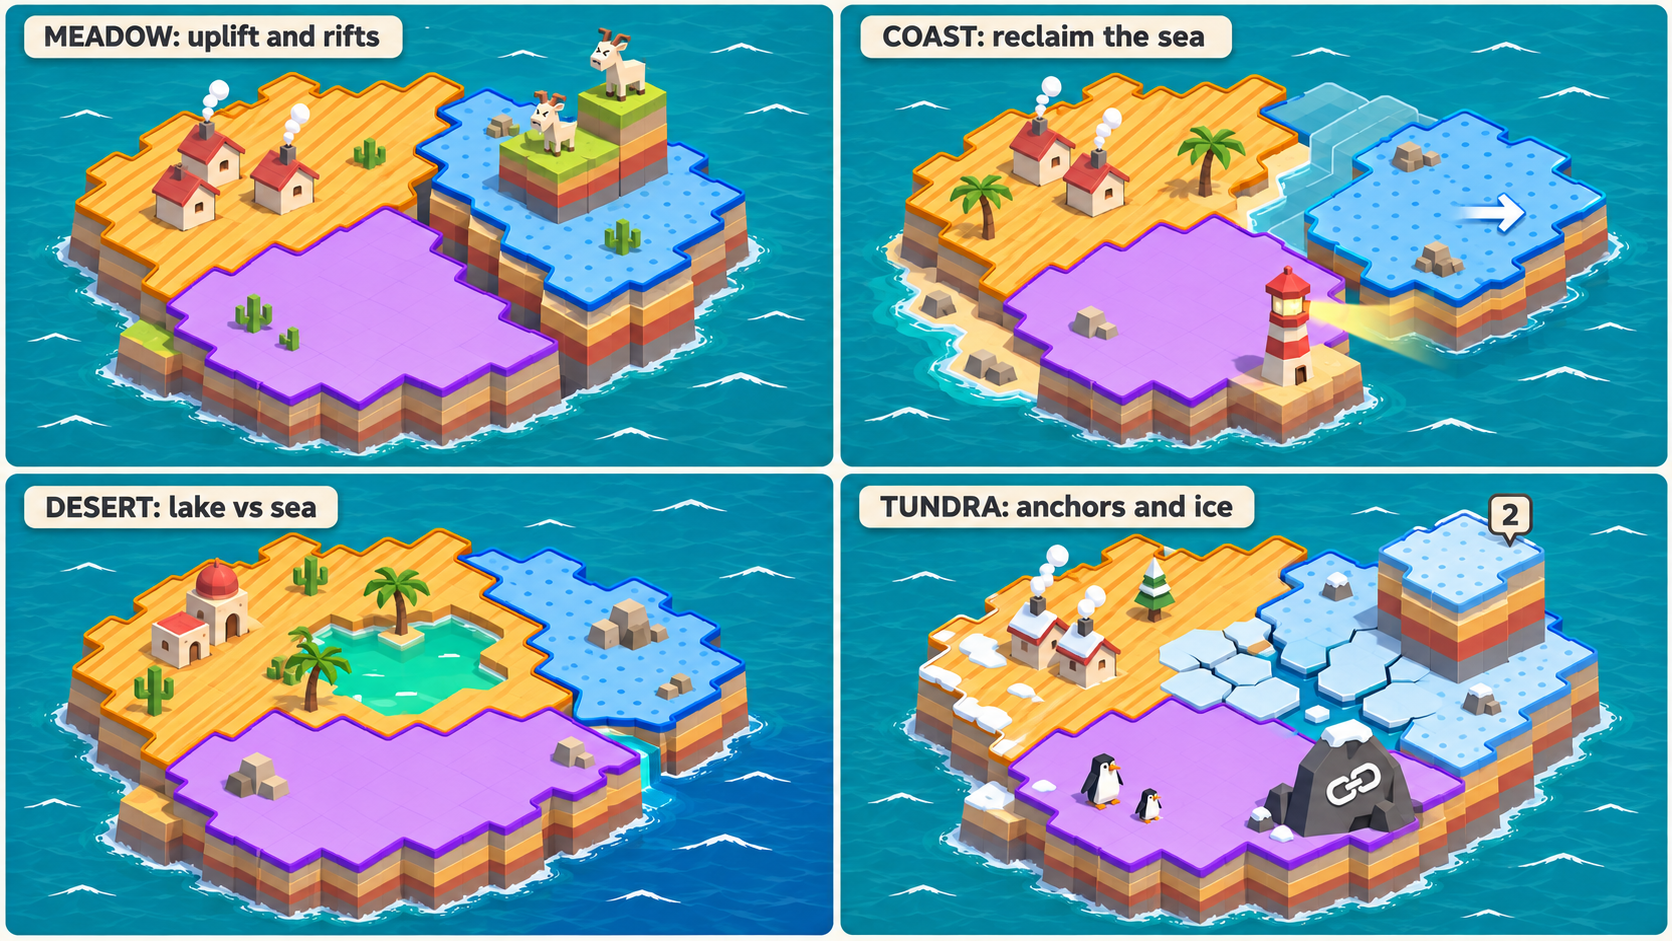
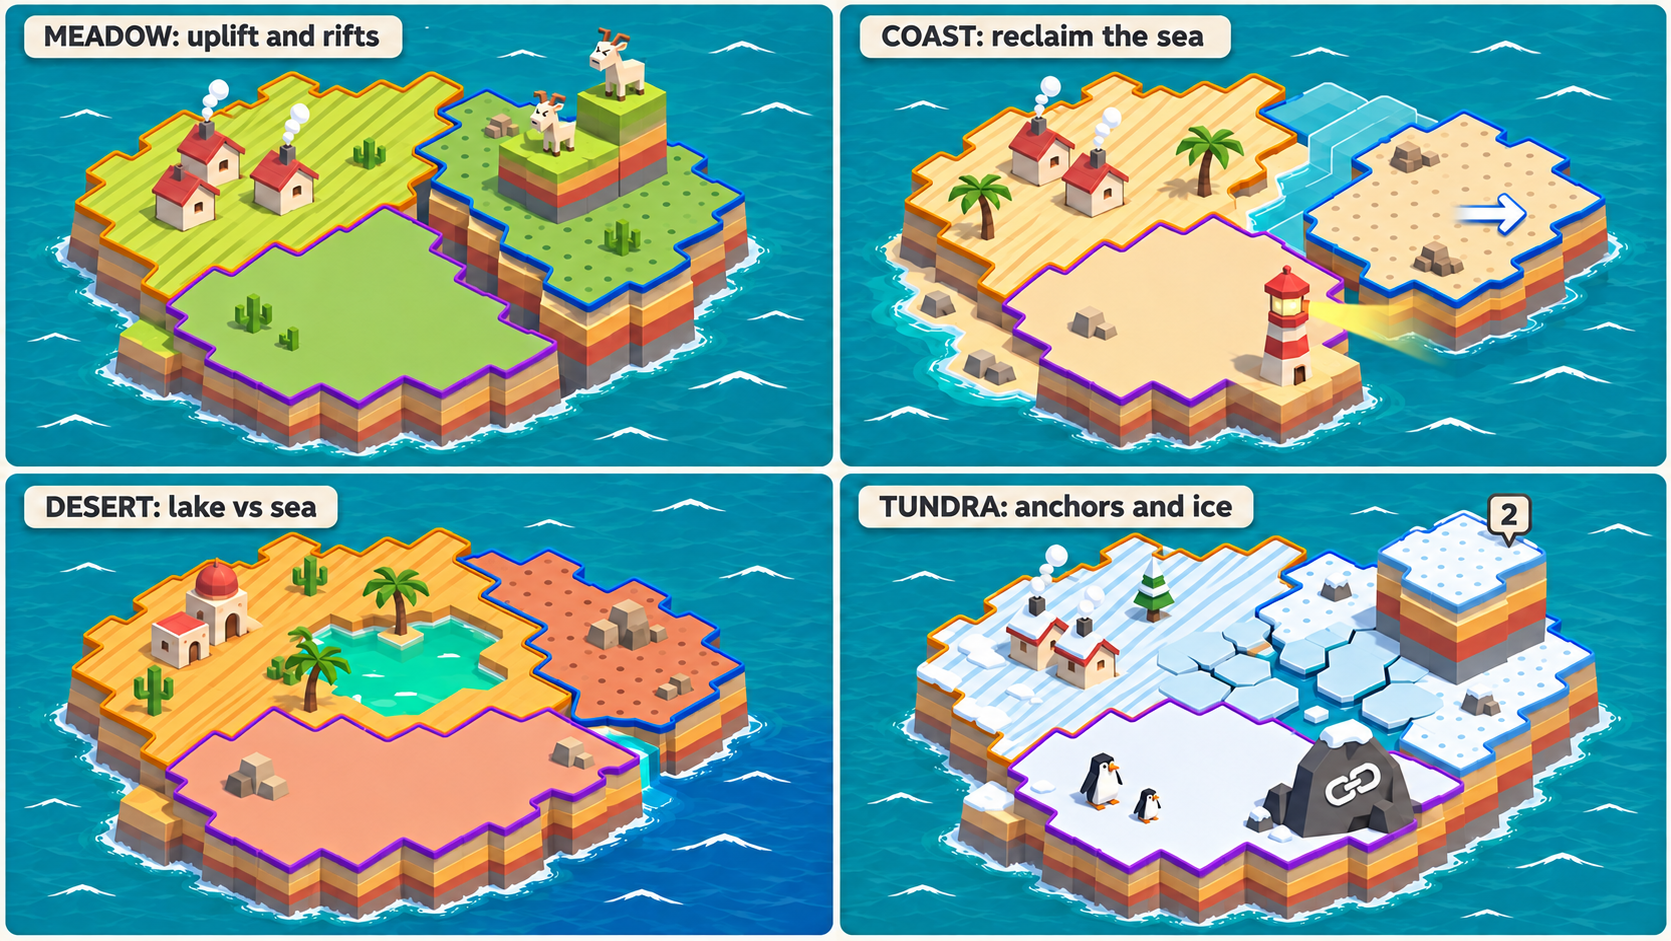
Design: plate palette rule (no water hues), sound recipes; build concept sheets

diff --git a/docs/design-plates.md b/docs/design-plates.md
@@ -106,8 +106,25 @@ All three twists make puzzles; none is dead weight. The oasis pushes levels deep
 
 ## Look and sound
 
-- Look: the `concepts/plates-mock.png` direction, but the island sits in an animated ocean (not over clouds), plate tints plus edge patterns (colour-blind safe), soft shadows, four biome palettes. All geometry and textures made in code.
+- Look: `concepts/plates-key-v3.png` and the `shiftland-*.png` sheets: the island sits in an animated ocean (not over clouds), plate tints plus edge patterns (colour-blind safe), soft shadows, four biome palettes. All geometry and textures made in code.
+- Plate palette rule: plate tints never use blue, teal or cyan (hue ~170-250°): water owns those hues (sea turquoise, lake green-teal), so a plate must never read as water. Per biome the three plate tints come from ochre, sage/green, lavender, terracotta, sand, slate-grey, rose. (Found in the first biome sheet, where a pale-blue dotted plate read as water.)
+- Props follow the biome: no cacti in Meadow, no pines in Desert.
 - Sound: WebAudio synth only. A gentle marimba/pad loop per biome (pentatonic, so moves can add notes in key), SFX: rumble, crack, water pour, goat bleat (formant synth), chimes, UI clicks. Mute and volume in settings.
+
+### Sound recipes (WebAudio, all synthesized)
+
+| Event | Recipe | Notes |
+|---|---|---|
+| Plate select | short marimba tick (sine + 2nd partial, 60 ms decay), pitch = plate's note in the biome scale | each plate "owns" a note, so moves become melody |
+| Slide one stop | soft stone scrape: band-passed noise sweep 200→600 Hz, 180 ms | lower and longer for bigger plates |
+| Uplift | low rumble (brown noise through 80 Hz low-pass, 350 ms swell) + a rising note per height step (pentatonic) | camera shake synced to the swell |
+| Rift + flood | crack (white-noise click + 1.2 kHz ping, 40 ms) then a pour: filtered noise with LFO gurgle, length = flood-fill time | pour pans toward the ocean side |
+| Goal ticks | rising two-note chime (triangle waves, a fifth apart) | each creature its own interval |
+| Goal lost | falling minor third, softer than the tick | never harsh; failure stays light |
+| Goat bleat | formant synth: sawtooth through two band-passes (700 Hz, 1.2 kHz) with fast vibrato, 300 ms | 3 random variants by pitch |
+| Village crushed | wooden creak (resonant filter sweep on noise) + a small comic "boing" | the fail is a gag, not a punishment |
+| Level complete | 4-bar pentatonic fanfare on marimba + pad swell; par star adds a sparkle arpeggio | |
+| Music | per-biome loop, 70-90 bpm: marimba/kalimba pattern over a soft pad, pentatonic so move notes always fit | ZzFXM or hand-written sequencer; mute and volume in settings |
 
 ## Screens
 
